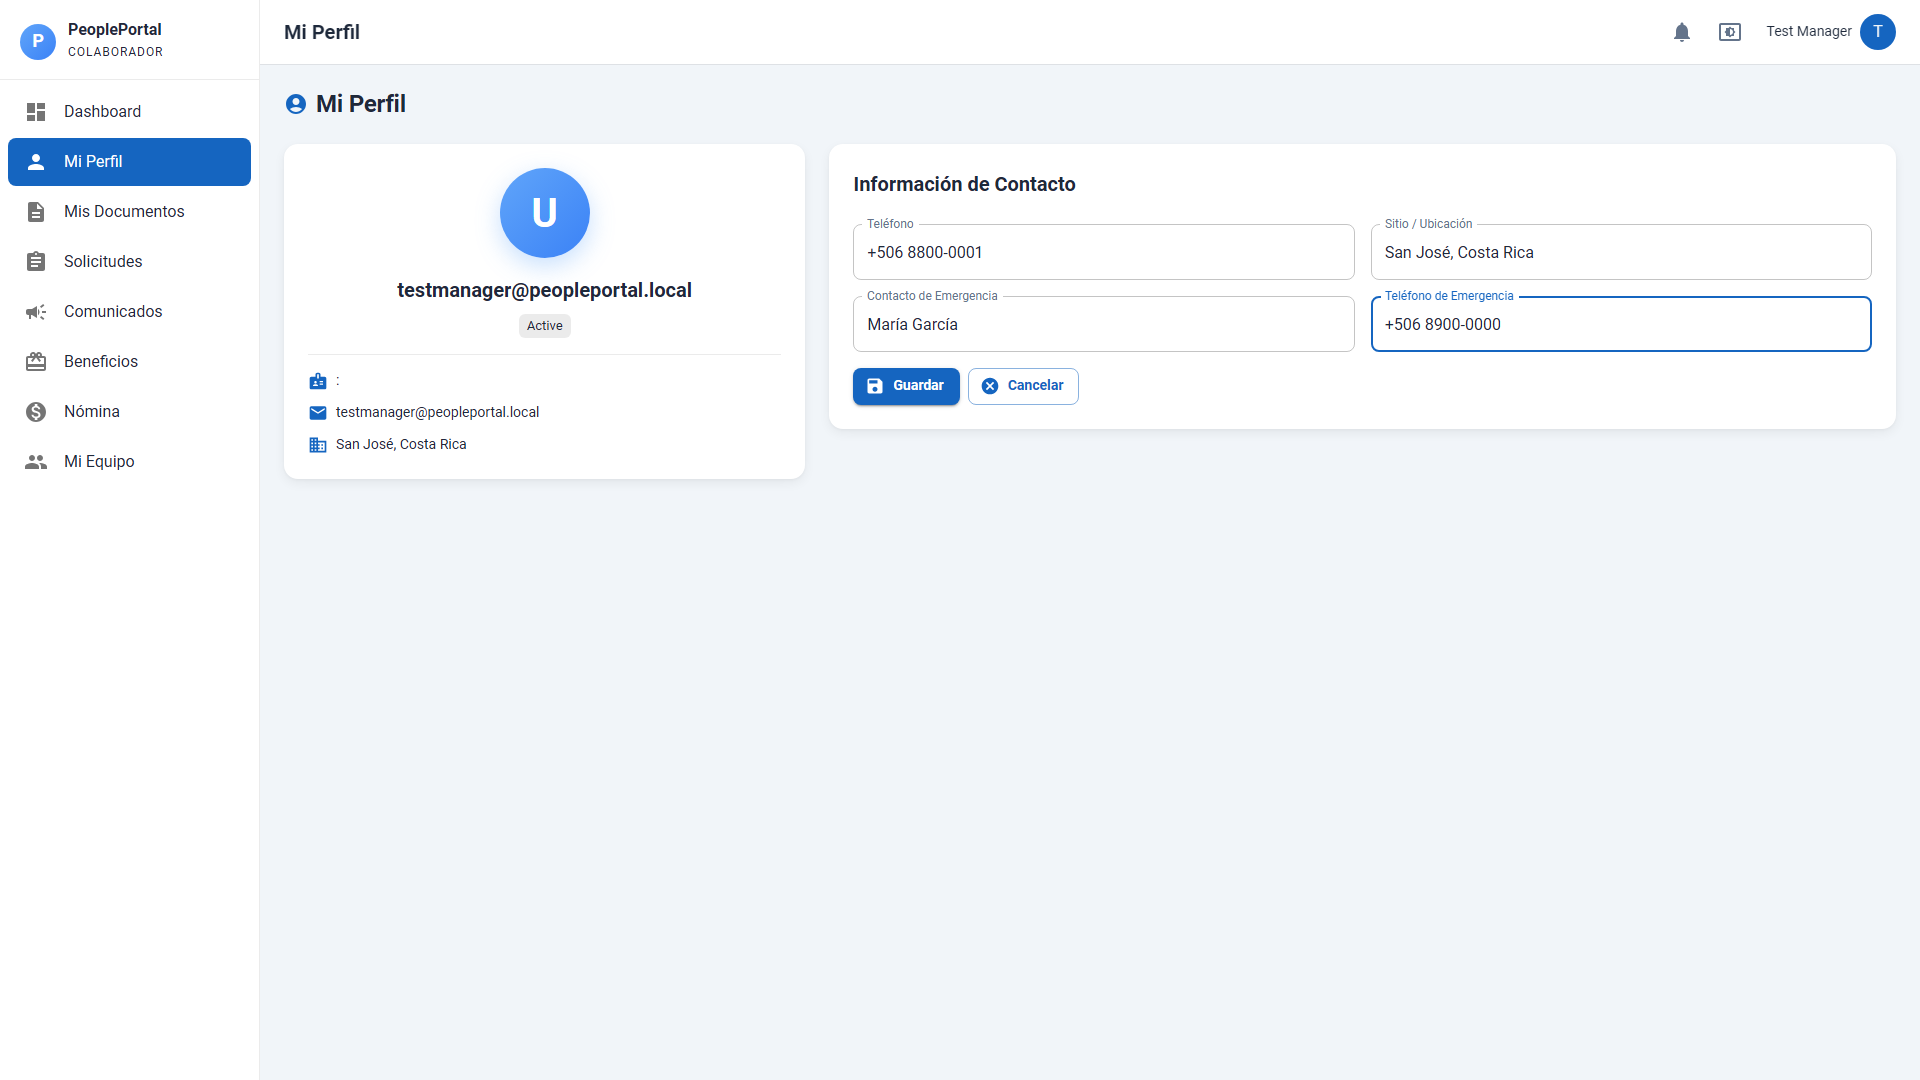
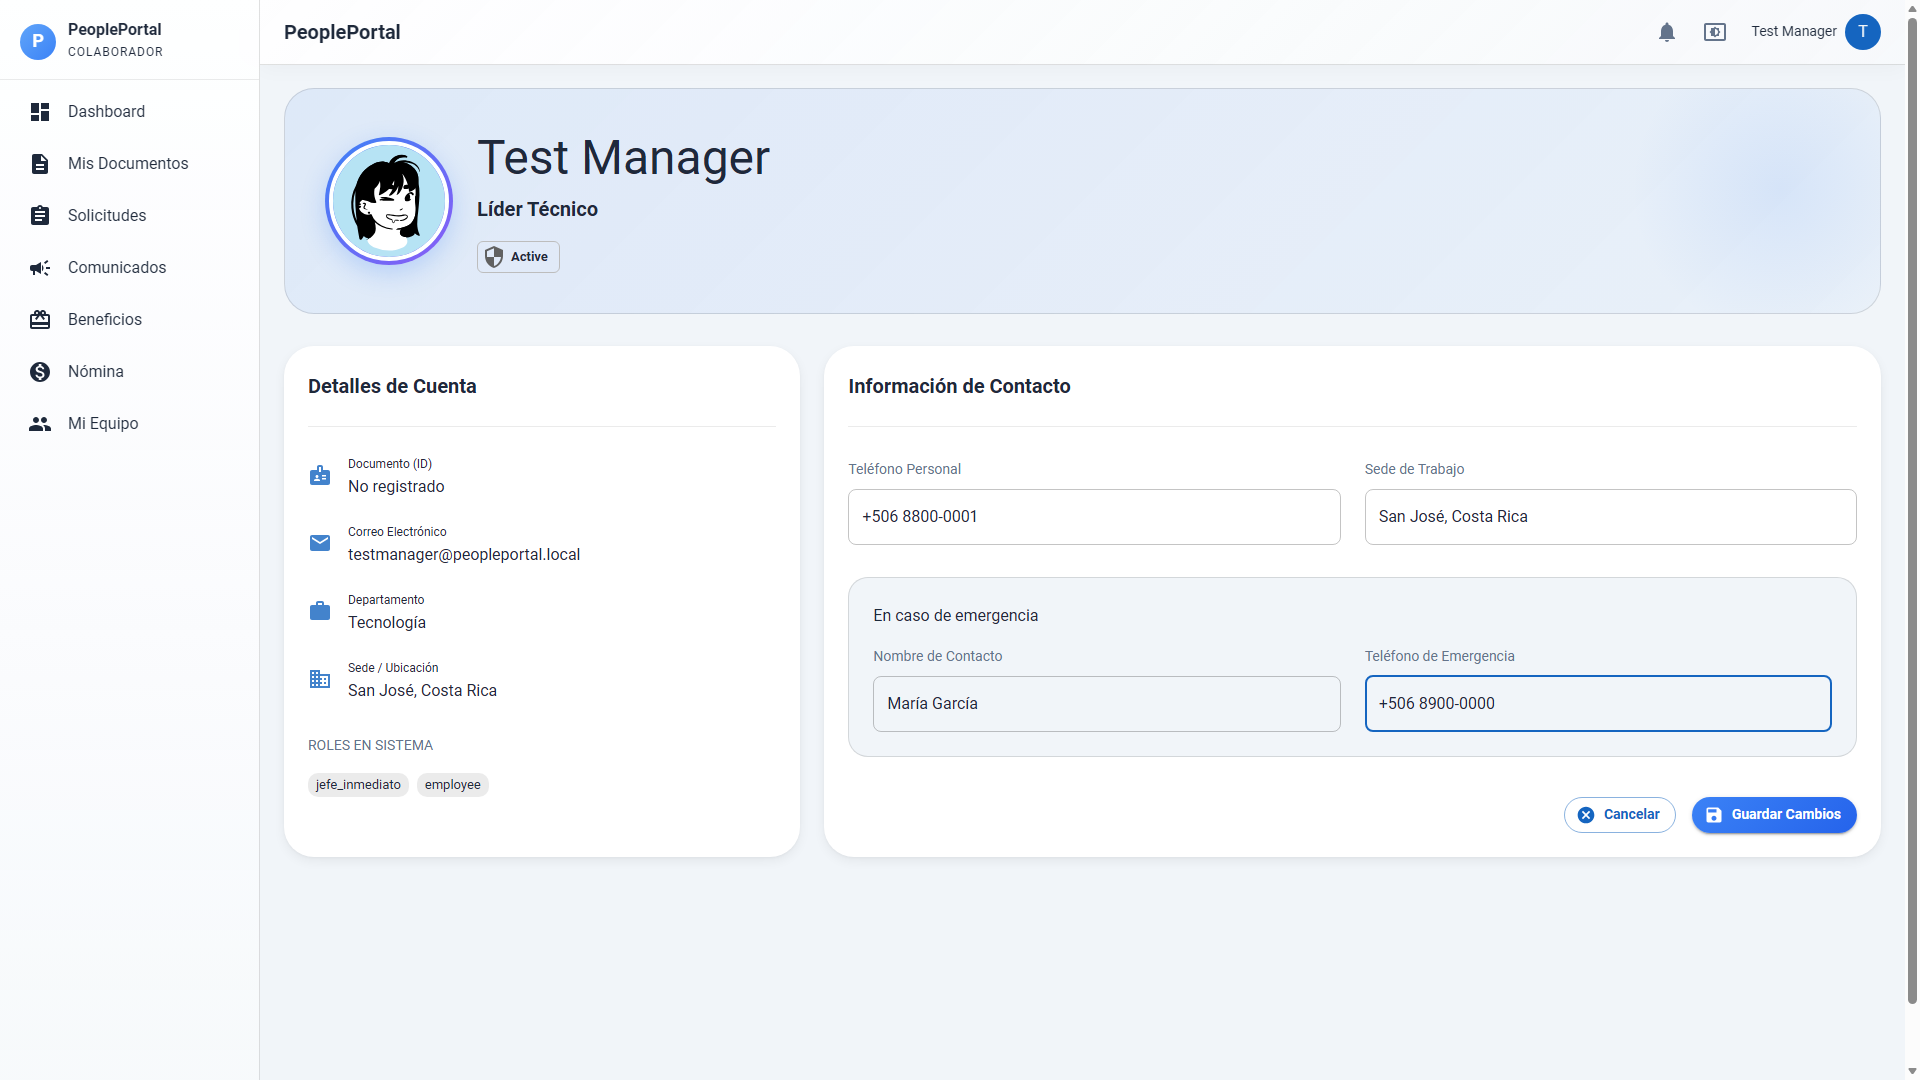
docs: update technical manuals and screenshots with Playwright edge captures

diff --git a/docs/rrhh/manual-tecnico.md b/docs/rrhh/manual-tecnico.md
@@ -35,36 +35,50 @@ El usuario administrador accede al portal y es redirigido a Keycloak para autent
 
 ---
 
-### 2. Gestión de Empleados
+### 2. Gestión de Perfil Administrativo
+
+**Módulo:** Mi Perfil
+
+El administrador de RRHH puede visualizar su información de cuenta, consultar sus roles asignados en el sistema (SSO Keycloak) y actualizar su información de contacto (teléfono, sede física y contacto en caso de emergencia).
+
+| Formulario en edición | Perfil actualizado |
+|---|---|
+| ![](screenshots/02-perfil-form.png) | ![](screenshots/02-perfil.png) |
+
+**API:** `GET /api/employees/me` / `PUT /api/employees/me`
+
+---
+
+### 3. Gestión de Empleados
 
 **Módulo:** Empleados
 
-El administrador puede crear un nuevo empleado llenando un formulario con sus datos personales y laborales.
+El administrador puede crear un nuevo empleado llenando un formulario con sus datos personales y laborales. El campo `Keycloak ID` se genera automáticamente mediante `crypto.randomUUID()` al guardar, por lo que no es necesario que el administrador lo ingrese.
 
 **Campos del formulario:**
 
-| Campo | Descripción |
-|---|---|
-| Código | Identificador único del empleado |
-| Nombre Completo | Nombre del empleado |
-| Email | Correo electrónico corporativo |
-| Departamento | Área de trabajo |
-| Puesto | Cargo dentro de la organización |
-| Fecha de Contratación | Fecha de inicio |
-| Tipo de Contrato | Indefinido, Temporal, etc. |
-| Teléfono | Número de contacto |
-| Sitio | Ubicación física |
-| Contacto de Emergencia | Persona a contactar |
+| Campo | Requerido | Descripción |
+|---|---|---|
+| Código | ✅ | Identificador único del empleado |
+| Nombre Completo | ✅ | Nombre del empleado |
+| Email | ✅ | Correo electrónico corporativo |
+| Departamento | ✅ | Área de trabajo |
+| Puesto | ✅ | Cargo dentro de la organización |
+| Fecha de Contratación | ✅ | Fecha de inicio |
+| Tipo de Contrato | ✅ | Indefinido, Temporal, Prácticas, Freelance |
+| Teléfono | — | Número de contacto |
+| Sitio | — | Ubicación física |
+| Contacto de Emergencia | — | Persona a contactar |
 
 | Formulario de creación lleno | Confirmación de creación |
 |---|---|
-| ![](screenshots/02-empleados-form.png) | ![](screenshots/02-empleados.png) |
+| ![](screenshots/03-empleados-form.png) | ![](screenshots/03-empleados.png) |
 
 **API:** `POST /api/hr/employees`
 
 ---
 
-### 3. Gestión de Documentos
+### 4. Gestión de Documentos
 
 **Módulo:** Documentos
 
@@ -72,13 +86,13 @@ El administrador puede subir documentos y asignarlos a un empleado específico. 
 
 | Formulario de carga lleno | Confirmación de carga |
 |---|---|
-| ![](screenshots/03-documentos-form.png) | ![](screenshots/03-documentos.png) |
+| ![](screenshots/04-documentos-form.png) | ![](screenshots/04-documentos.png) |
 
 **API:** `POST /api/hr/documents`
 
 ---
 
-### 4. Aprobación de Solicitudes
+### 5. Aprobación de Solicitudes
 
 **Módulo:** Solicitudes
 
@@ -86,13 +100,13 @@ El administrador puede filtrar las solicitudes de los empleados por tipo (Vacaci
 
 | Lista con filtro aplicado | Solicitud aprobada |
 |---|---|
-| ![](screenshots/04-solicitudes-form.png) | ![](screenshots/04-solicitudes.png) |
+| ![](screenshots/05-solicitudes-form.png) | ![](screenshots/05-solicitudes.png) |
 
 **API:** `PATCH /api/hr/requests/{id}/status`
 
 ---
 
-### 5. Gestión de Comunicados
+### 6. Gestión de Comunicados
 
 **Módulo:** Comunicados
 
@@ -100,13 +114,13 @@ El administrador puede crear comunicados internos con título, tipo, fecha de ex
 
 | Formulario de creación lleno | Confirmación de creación |
 |---|---|
-| ![](screenshots/05-comunicados-form.png) | ![](screenshots/05-comunicados.png) |
+| ![](screenshots/06-comunicados-form.png) | ![](screenshots/06-comunicados.png) |
 
 **API:** `POST /api/hr/announcements`
 
 ---
 
-### 6. Gestión de Beneficios
+### 7. Gestión de Beneficios
 
 **Módulo:** Beneficios
 
@@ -114,13 +128,13 @@ El administrador puede registrar beneficios corporativos (Salud, Educación, Bie
 
 | Formulario de creación lleno | Confirmación de creación |
 |---|---|
-| ![](screenshots/06-beneficios-form.png) | ![](screenshots/06-beneficios.png) |
+| ![](screenshots/07-beneficios-form.png) | ![](screenshots/07-beneficios.png) |
 
 **API:** `POST /api/hr/benefits`
 
 ---
 
-### 7. Gestión de Nómina
+### 8. Gestión de Nómina
 
 **Módulo:** Nómina
 
@@ -128,13 +142,13 @@ El administrador puede crear registros de nómina seleccionando el empleado, el 
 
 | Formulario de registro lleno | Confirmación de creación |
 |---|---|
-| ![](screenshots/07-nomina-form.png) | ![](screenshots/07-nomina.png) |
+| ![](screenshots/08-nomina-form.png) | ![](screenshots/08-nomina.png) |
 
 **API:** `POST /api/hr/nomina`
 
 ---
 
-### 8. Gestión de Usuarios del Sistema
+### 9. Gestión de Usuarios del Sistema
 
 **Módulo:** Usuarios
 
@@ -142,29 +156,34 @@ El administrador puede crear cuentas de usuario para que los empleados accedan a
 
 | Formulario de creación lleno | Confirmación de creación |
 |---|---|
-| ![](screenshots/08-usuarios-form.png) | ![](screenshots/08-usuarios.png) |
+| ![](screenshots/09-usuarios-form.png) | ![](screenshots/09-usuarios.png) |
 
 **API:** `POST /api/hr/users`
 
 ---
 
-### 9. Reportes
+### 10. Reportes Gerenciales y Estadísticas
 
 **Módulo:** Reportes
 
-Panel de reportes con métricas y estadísticas del personal.
+Panel de reportes con métricas en tiempo real: distribución de empleados por estado, solicitudes por estado y tipo, evolución mensual de solicitudes, documentos pendientes. Permite descarga en PDF.
 
-![](screenshots/09-reportes.png)
+![](screenshots/10-reportes.png)
 
-**API:** `GET /api/hr/reports`
+**APIs:**
+- `GET /api/hr/reports/employees/active`
+- `GET /api/hr/reports/documents/pending`
+- `GET /api/hr/reports/requests/by-status`
+- `GET /api/hr/reports/requests/by-type`
+- `GET /api/hr/reports/requests/over-time`
 
 ---
 
-### 10. Dashboard
+### 11. Dashboard Final
 
-Vista resumen del sistema con acceso a todos los módulos.
+Vista resumen del sistema con acceso consolidado y estado verificado.
 
-![](screenshots/10-dashboard-final.png)
+![](screenshots/11-dashboard-final.png)
 
 ---
 
@@ -172,6 +191,8 @@ Vista resumen del sistema con acceso a todos los módulos.
 
 | Método | Endpoint | Módulo | Propósito |
 |---|---|---|---|
+| `GET` | `/api/employees/me` | Perfil | Cargar datos del perfil |
+| `PUT` | `/api/employees/me` | Perfil | Actualizar datos del perfil |
 | `POST` | `/api/hr/employees` | Empleados | Crear un empleado |
 | `POST` | `/api/hr/documents` | Documentos | Subir un documento |
 | `PATCH` | `/api/hr/requests/{id}/status` | Solicitudes | Aprobar o rechazar una solicitud |
@@ -179,7 +200,38 @@ Vista resumen del sistema con acceso a todos los módulos.
 | `POST` | `/api/hr/benefits` | Beneficios | Crear un beneficio |
 | `POST` | `/api/hr/nomina` | Nómina | Crear un registro de nómina |
 | `POST` | `/api/hr/users` | Usuarios | Crear un usuario del sistema |
-| `GET` | `/api/hr/reports` | Reportes | Obtener reportes |
+| `GET` | `/api/hr/reports/*` | Reportes | Obtener métricas y estadísticas |
+
+---
+
+## Pruebas Automatizadas E2E
+
+### Resultado de la última ejecución
+
+| Test | Resultado | Duración | Fecha |
+|---|---|---|---|
+| Portal RRHH — Full Flows (POM based) | ✅ 1 passed | 1m 12s | 2026-07-17 |
+
+**Comando de ejecución:**
+```bash
+npx playwright test e2e-tests/full-flows.spec.js --headed
+```
+
+### Flujos cubiertos por los tests E2E
+
+| Paso | Módulo | Acción | Endpoint verificado |
+|---|---|---|---|
+| 1 | Login | Autenticación con Keycloak (`admin` / `admin123`) | — |
+| 2 | Perfil | Editar teléfono, sede, contacto → Guardar | `PUT /api/employees/me` |
+| 3 | Empleados | Crear empleado con todos los campos (keycloakId auto-generado) | `POST /api/hr/employees` |
+| 4 | Documentos | Buscar + Subir documento (empleado, nombre, tipo, URL) | `POST /api/hr/documents` |
+| 5 | Solicitudes | Filtrar por tipo + Aprobar solicitud pendiente | `PATCH /api/hr/requests/{id}/status` |
+| 6 | Comunicados | Crear comunicado (título, tipo HR, expiración, cuerpo) | `POST /api/hr/announcements` |
+| 7 | Beneficios | Crear beneficio (nombre, tipo Salud, descripción) | `POST /api/hr/benefits` |
+| 8 | Nómina | Crear registro (empleado, tipo, mes Junio, año 2026) | `POST /api/hr/nomina` |
+| 9 | Usuarios | Crear usuario Keycloak (username, email, nombre, apellido, contraseña) | `POST /api/hr/users` |
+| 10 | Reportes | Verificar carga de gráficas y tablas | `GET /api/hr/reports/*` |
+| 11 | Dashboard | Navegar al dashboard final | — |
 
 ---
 

diff --git a/docs/colaborador/manual-tecnico.md b/docs/colaborador/manual-tecnico.md
@@ -119,11 +119,11 @@ El colaborador puede leer los comunicados internos publicados por la administrac
 
 **Módulo:** Beneficios
 
-El colaborador puede ver los beneficios disponibles y canjearlos.
+El colaborador puede ver los beneficios corporativos disponibles (Salud, Educación, Alimentación, Transporte, etc.) publicados por RRHH. La vista es de solo lectura.
 
 ![](screenshots/07-beneficios.png)
 
-**API:** `POST /api/benefits/redeem`
+**API:** `GET /api/benefits`
 
 ---
 
@@ -131,11 +131,11 @@ El colaborador puede ver los beneficios disponibles y canjearlos.
 
 **Módulo:** Nómina
 
-El colaborador puede consultar sus recibos de nómina.
+El colaborador puede consultar sus comprobantes de nómina. Incluye un filtro por tipo de comprobante (Comprobante de Pago, Bonificación, Adelanto, etc.).
 
 ![](screenshots/08-nomina.png)
 
-**API:** `GET /api/payroll/me`
+**API:** `GET /api/nomina/me`
 
 ---
 
@@ -151,14 +151,43 @@ Vista resumen con acceso a todos los módulos disponibles.
 
 | Método | Endpoint | Módulo | Propósito |
 |---|---|---|---|
+| `GET` | `/api/employees/me` | Perfil | Cargar datos del perfil |
 | `PUT` | `/api/employees/me` | Perfil | Actualizar datos del perfil |
 | `GET` | `/api/documents/me` | Documentos | Listar documentos personales |
 | `POST` | `/api/requests/vacation` | Solicitudes | Crear solicitud de vacaciones |
 | `POST` | `/api/requests/certificate` | Solicitudes | Crear solicitud de constancia |
-| `GET` | `/api/team/requests` | Mi Equipo | Ver solicitudes del equipo |
-| `GET` | `/api/announcements` | Comunicados | Listar comunicados |
-| `POST` | `/api/benefits/redeem` | Beneficios | Canjear un beneficio |
-| `GET` | `/api/payroll/me` | Nómina | Ver recibos de nómina |
+| `GET` | `/api/announcements` | Comunicados | Listar comunicados activos |
+| `GET` | `/api/benefits` | Beneficios | Listar beneficios disponibles |
+| `GET` | `/api/nomina/me` | Nómina | Ver comprobantes de nómina |
+
+---
+
+## Pruebas Automatizadas E2E
+
+### Resultado de la última ejecución
+
+| Test | Resultado | Duración | Fecha |
+|---|---|---|---|
+| Portal Colaborador — Full Flows (POM based) | ✅ 1 passed | 29.8s | 2026-07-17 |
+
+**Comando de ejecución:**
+```bash
+npx playwright test e2e-tests/full-flows.spec.js --headed
+```
+
+### Flujos cubiertos por los tests E2E
+
+| Paso | Módulo | Acción | Endpoint verificado |
+|---|---|---|---|
+| 1 | Login | Autenticación con Keycloak (`testmanager` / `test123`) | — |
+| 2 | Perfil | Editar teléfono, sede, contacto de emergencia → Guardar | `PUT /api/employees/me` |
+| 3 | Documentos | Buscar en tabla (`contrato`) | `GET /api/documents/me` |
+| 4 | Solicitudes | Crear vacaciones (fechas + motivo) + Crear constancia (tipo + motivo) | `POST /api/requests/vacation` + `POST /api/requests/certificate` |
+| 5 | Mi Equipo | Verificar disponibilidad (solo managers) | — |
+| 6 | Comunicados | Verificar listado | `GET /api/announcements` |
+| 7 | Beneficios | Verificar tarjetas de beneficios | `GET /api/benefits` |
+| 8 | Nómina | Verificar tabla de comprobantes | `GET /api/nomina/me` |
+| 9 | Dashboard | Navegar al dashboard | — |
 
 ---
 
